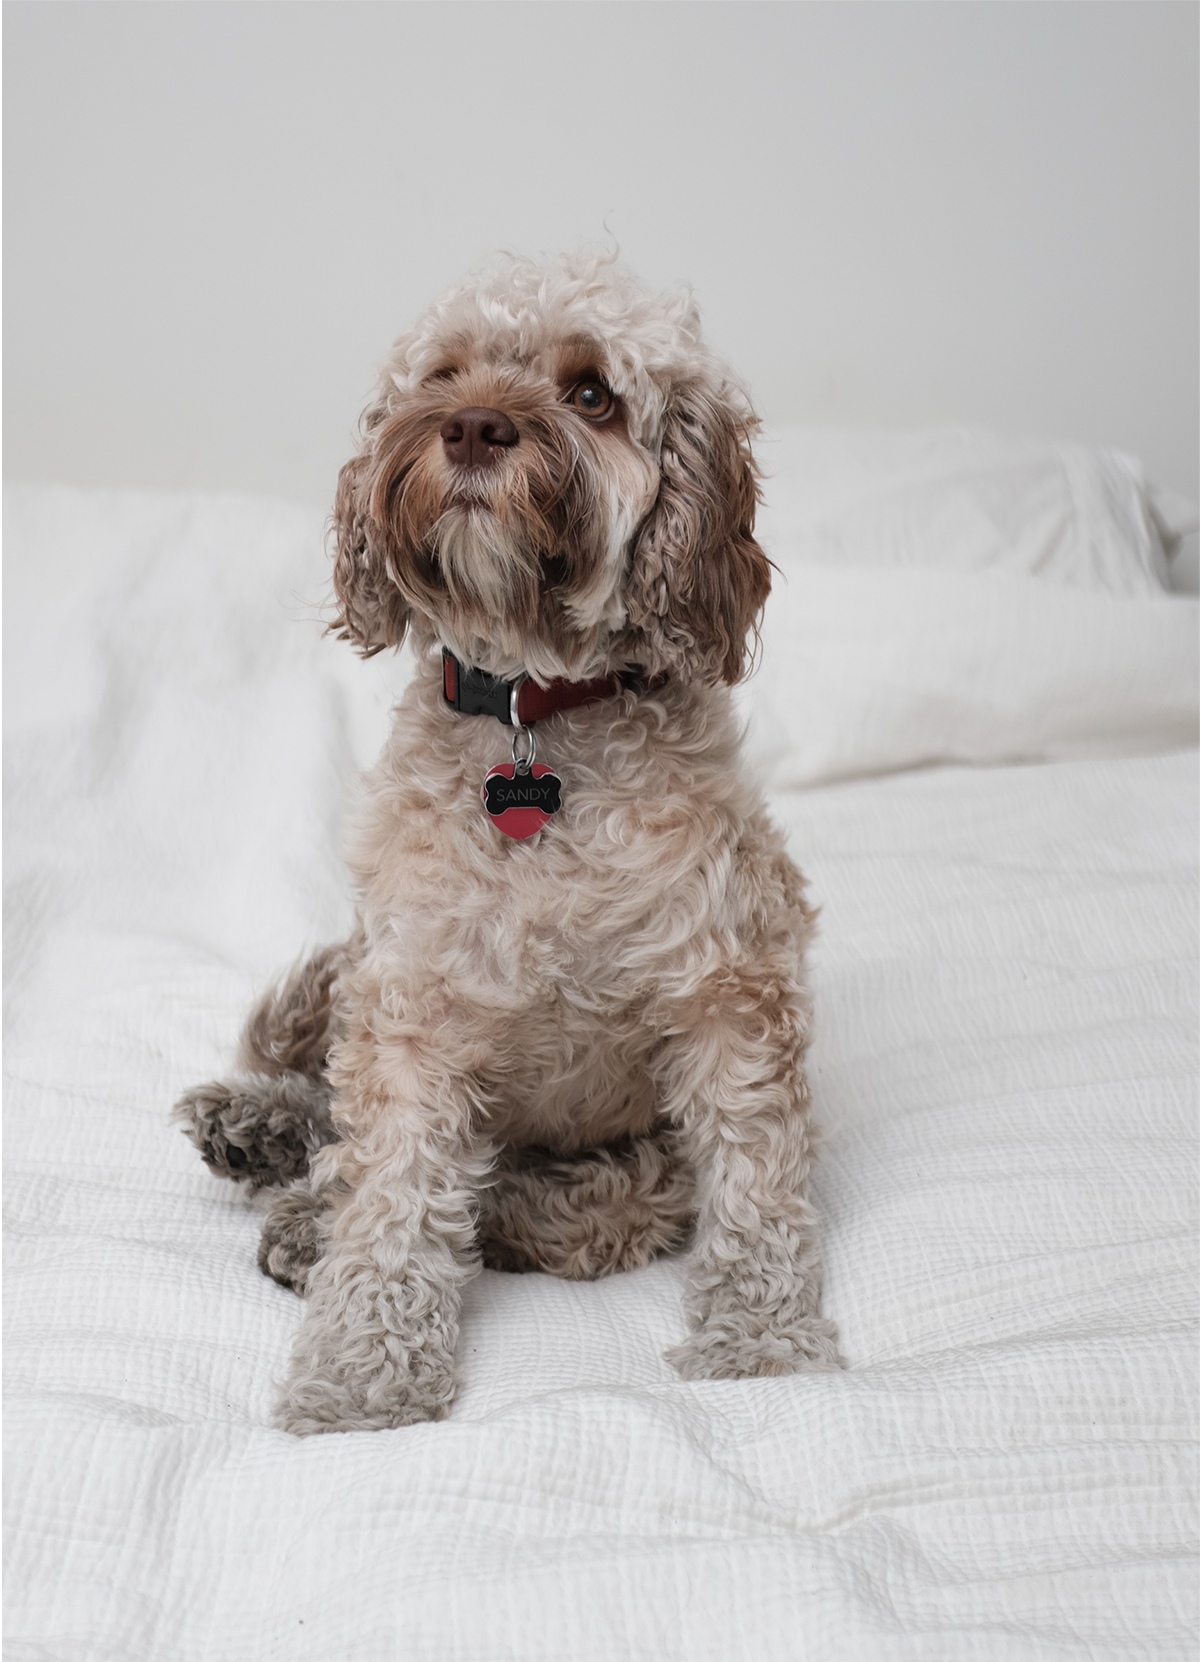
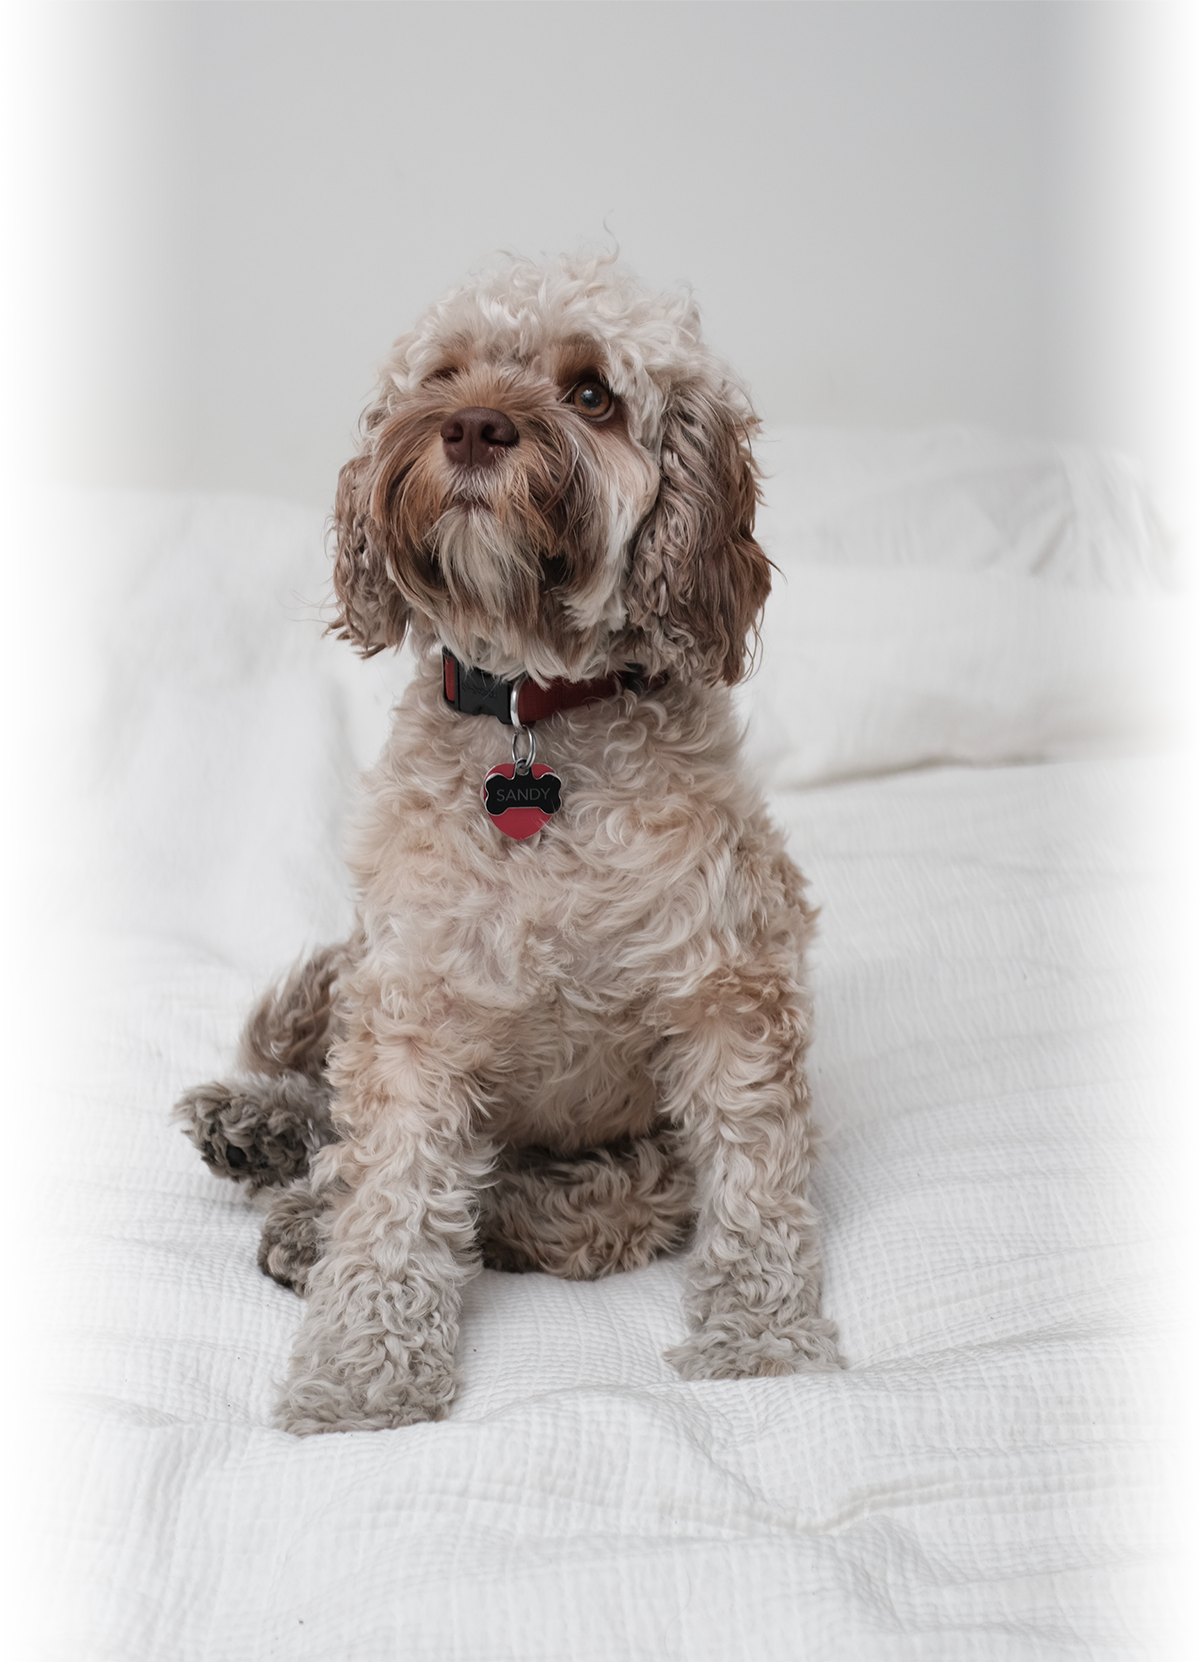
wider aspect ratio
dog image fades into a gray background

Changed region(s): [[0.8942, 0.0, 1.0, 1.0], [0.0, 0.0, 0.0925, 1.0]]

diff --git a/templates/quantum-classical.html b/templates/quantum-classical.html
@@ -2,33 +2,33 @@
   <head>
     <meta charset="UTF-8" name="viewport" content="width=device-width, initial-scale=1">
     <title>Quantum vs. Classical</title>
-      
+
     <!-- Styles -->
     <link rel="stylesheet" type="text/css" href="../resources/css/tachyons.css">
     <link rel="stylesheet" type="text/css" href="../resources/css/additions.css"/>
     <link rel="stylesheet" href="../resources/node_modules/lightbox2/dist/css/lightbox.css">
-    
+
     <!-- Scripts -->
     <script type='text/javascript' src='../resources/js/jquery-3.2.1.min.js'></script>
     <script type='text/javascript' src="../resources/js/iframeResizer.js"></script>
     <script type='text/javascript' src="../resources/node_modules/lightbox2/dist/js/lightbox.js"></script>
-    
+
     <!-- Fonts -->
     <link rel="stylesheet" href="https://fonts.googleapis.com/css?family=Lora">
-      
+
   </head>
   <body class="cf lora f5-ns f6 dark-gray bg-lighter-gray">
-      
+
     <!-- Header -->
     <header class="w-100 center bg-lighter-gray fixed z-max">
       <div class="w-100 cf mw7 center bg-lighter-gray pb1 pt2 bb b--light-gray">
-        
+
         <!-- Site title and logo -->
         <div class="w-30 fl mt1 pl4">
           <h1 class="f5-l f5 tl pt3 pb3 gray ma0 dn db-l">Quantum Atlas</h1>
           <h1 class="f5-l f5 tc pt3 pb3 gray ma0 db dn-l">QA</h1>
         </div>
-        
+
         <!-- Searchbar -->
         <div class="w-50 fr pr4">
           <form class="mt2 mb2 black-80 dib w-90 w-100-l flex fl">
@@ -36,67 +36,69 @@
             <button class="w-10 bg-lighter-gray b--black-20" style="box-shadow: none; background-color: rgba(240, 240, 240, 0.8);"><img src="../resources/icons/search.svg" style="center"></button>
           </form>
         </div>
-        
+
       </div>
     </header>
-    
+
     <!-- Entry title box -->
     <div class="w-100 mw7 cf center pt5 mt4 pl4">
       <span class="blue pointer f6 sans-serif">Atlas Term <span class="f7 pb2 blue relative" style=""> ›</span></span>
       <h1 class="f2-l tl-l f4 ma0 mt1 helvetica">Quantum vs. Classical</h1>
       <h3 class="f6 mt2 mb4 gray i tl-l">What makes the quantum world different?</h3>
     </div>
-    
-    <!-- Entry body --> 
+
+    <!-- Entry body -->
     <div class="w-100 mw7 cf center pa4 pt0">
       <div class="w-90 w-100-l center fr-l pr3 pl3 pa0-l mt0">
-        
+
         <!-- Banner image and caption -->
         <div class="mb4 mt0 tc">
           <div class="relative w-100-l mt0-l">
             <div  class="w-100 tc">
-              <div class="ba b--moon-gray mb3 center relative tc"><img src="../resources/images/banners/andreas-gucklhorn-285567.jpg"></div>
+              <div class="ba b--moon-gray mb3 center relative tc">
+                <iframe src="../resources/interactives/dog-zoom/index.html" class="iframe w-100 v-mid" id="g731" scrolling="no" frameborder="0"></iframe>
+              </div>
             </div>
           </div>
         </div>
         <div style="height: 100px;" class="w-40-l w-100 fr pl2 pr2 pl3-l pr0-l pt2">
           <p class="w-90-l w-100 mw7 center pl4 f7 fr-l sans-serif gray lh-copy mt1 br bl bb b--moon-gray bg-light-gray caption">Size is one way to distinguish the quantum world from the classical world, although it's not a perfect separation.</p>
         </div>
-        
+
         <p class="w-60-l w-100 mw7 mw9-ns center ml0-ns mr0-ns mt2 pr4">
           Everyday objects more or less obey the laws of physics discovered by Isaac Newton and other luminaries of the Enlightenment. You can (usually) find your car keys because they stay right where you put them an hour ago. They don’t suddenly appear in the refrigerator. You can decide how to dress because your clothes don’t change color in the closet. A well-pitched baseball always arrives at the catcher’s mitt and not in the parking lot.
         </p>
-        
+
         <p class="w-60-l w-100 mw7 mw9-ns center ml0-ns mr0-ns mt2 pr4">
           These everyday experiences are the result of classical physics—the laws and equations that were around before quantum mechanics. The world of classical physics is predictable. If you know the initial position and speed of an object, as well as the forces that act on it, you can predict its motion with perfect certainty. That’s how NASA can place a spacecraft at a precise location a billion kilometers away.
         </p>
-        
+
         <!-- Inline image -->
         <div class="w-50-l mt0 tc">
           <img src="../resources/images/Classical_Space.png" class="pl3 pr3 pb4 pt2 mw6" style="width: 60% ;float: center ;"/>
         </div>
-        
+
         <p class="w-60-l w-100 mw7 mw9-ns center ml0-ns mr0-ns mt2 pr4">
           But in the quantum world—at the scale of atoms or smaller—things are utterly different. Not weird or mysterious or incomprehensible. Just way different.
         </p>
-        
+
         <p class="w-60-l w-100 mw7 mw9-ns center ml0-ns mr0-ns mt2 pr4">
           For one thing, properties of quantum objects can’t take on any old value. Someone walking down a ramp can stop anywhere along the way, but many quantum properties are restricted to certain allowed values—more like items placed on a staircase than on a ramp. Something can be on step 2, 3, 4 or whatever. But not step 2.67 or 4.23. It’s the way nature seems to operate at the smallest scales.
         </p>
-        
+
         <!-- Inline image -->
         <div class="w-50-l mt0 tc">
           <img src="../resources/images/Classical_Ramp.png" class="pl3 pr3 pb2 pt2 mw6" style="width: 100% ;float: center ;"/>
         </div>
-        
+
         <p class="w-60-l w-100 mw7 mw9-ns center ml0-ns mr0-ns mt2 pr4">
           Each increment is a “quantum,” from the Latin word for “how much” (plural: quanta). Some quantum effects defy intuition, but others are easier to understand. For example, each element in the periodic table has its own unique luminous fingerprint, which is also called a spectrum. That’s because each has its own distinct arrangement of electrons with certain specific energies.
         </p>
-        
+
         <p class="w-60-l w-100 mw7 mw9-ns center ml0-ns mr0-ns mt2 pr4">
 				When one electron gains <i>exactly</i> the right amount of energy—no more, no less—it can jump to a higher energy level. Eventually it falls back down, and it sheds that energy as a quantum of light—also known as a photon. The color of the light depends on the energy difference between the two levels, and so is unique to every element. (When electrons change levels, they do so instantaneously in a “quantum leap.”)
         </p>
-        
+
         <!-- Sidebar image and caption -->
         <div class="w-100 w-40-l relative items-center flex fr pl5-ns">
           <div class="absolute-l w-100 mw7-ns pr5-ns">
@@ -110,30 +112,30 @@
             </div>
           </div>
         </div>
-        
+
         <p class="w-60-l w-100 mw7 mw9-ns center ml0-ns mr0-ns mt2 pr4">
 				Many more properties, including aspects of magnetism, are quantized on the atomic scale. But that does not mean that an object’s properties have fixed values. In fact, isolated quantum objects or systems do not have any particular properties until they are measured, a feature you can learn more about in the <a href="measurement.html">entry on quantum measurement</a>. Quantum physics provides a way to calculate the probability of any given measurement outcome, though, even if it doesn’t provide the perfect predictability of classical physics.
         </p>
-        
+
         <p class="w-60-l w-100 mw7 mw9-ns center ml0-ns mr0-ns mt2 pr4">
           Finally, in the quantum world objects can behave like both particles and waves, depending on the situation. Although massless photons behave like waves, and can be reflected, refracted and so forth, they also behave like particles in certain experiments. For example, when a photon with the right energy strikes some materials, it can liberate an electron from its usual cramped position. This interaction, called the photoelectric effect, got Einstein a Nobel prize and serves as the basis for every photovoltaic cell that makes electricity out of light from the sun.
         </p>
-        
+
         <!-- Inline image -->
         <div class="w-50-l mt0 tc">
           <img src="../resources/images/Classical_PhotonCollison.png" class="pl3 pr3 pb2 pt2 mw6" style="width: 100% ;float: center ;"/>
         </div>
-        
+
         <p class="w-60-l w-100 mw7 mw9-ns center ml0-ns mr0-ns mt2 pr4">
           Ordinary matter like electrons also have a fickle personality. As particles, they are used in lithography, welding, chemical processing, medicine and many more applications. But when a beam of electrons passes through a barrier with two parallel slits and then on to a detector, the electrons behave like waves, forming interference patterns on the detector.
         </p>
-        
+
       </div>
     </div>
-      
+
     <script type='text/javascript' src='../resources/js/sidenote.js'></script>
     <script>iFrameResize({log:false})</script>
     <script type='text/javascript' src="../resources/js/scroll.js"></script>
-    
+
   </body>
 </html>

diff --git a/resources/interactives/dog-zoom/index.html b/resources/interactives/dog-zoom/index.html
@@ -1,33 +1,38 @@
 <html>
   <head>
     <script src="https://cdnjs.cloudflare.com/ajax/libs/gsap/1.20.4/TweenMax.min.js"></script>
-    <link rel="stylesheet" type="text/css" media="all" href="../../tachyons.css"/>
+    <script type='text/javascript' src="../../../resources/js/iframeResizer.contentWindow.js"></script>
+    <link rel="stylesheet" type="text/css" media="all" href="../../css/tachyons.css"/>
     <style>
     #label {
-      top: 80%;
-      background-color:rgba(255, 255, 255, 0.25);
+      top: 78%;
+    }
+    .shaded {
+      background-color:rgba(255, 255, 255, 0.5);
     }
     #buttons {
       z-index: 4;
-      top: 90%;
+      top: 89%;
     }
     </style>
   </head>
   <body>
-    <div class="w-100 mw7 center mt4 sans-serif dark-gray overflow-hidden relative" id="container">
-      <div class="center w-100 tc z-3 f1 v-top absolute pa2 blue outline" id="label">100,000x</div>
-      <div class="w-100 mt1 absolute" id="buttons">
-        <div class="w-100 mw4 center">
-          <a class="f1 link dim ph3 code pv2 mb2 dib w-50 fr tc outline" href="#0" onclick="increment(1)">+</a>
-          <a class="f1 link dim ph3 code pv2 mb2 dib w-50 tc outline" href="#0" onclick="increment(-1)">-</a>
+    <div class="w-100 mw7 center bg-moon-gray">
+      <div class="w-100 mw5 center sans-serif dark-gray overflow-hidden relative" id="container">
+        <div class="center w-100 tc z-3 f2 v-top absolute pa2 blue outline shaded" id="label">100,000x</div>
+        <div class="w-100 absolute" id="buttons">
+          <div class="w-100 mw4 center">
+            <a class="f2 link dim ph3 code pv2 mb2 dib w-40 fr tc outline shaded" href="#0" onclick="increment(1)">+</a>
+            <a class="f2 link dim ph3 code pv2 mb2 dib w-40 fl tc outline shaded" href="#0" onclick="increment(-1)">-</a>
+        </div>
+        </div>
+        <img src="images/hair.png" class="absolute w-100 z-1" id="hair">
+        <img src="images/bacteria.png" class="absolute w-100 z-1" id="bacteria">
+        <img src="images/atom.png" class="absolute w-100 z-1" id="atom">
+        <img src="images/glass.png" class="absolute w-100 z-2" id="glass">
+        <img src="images/glass.png" class="absolute w-100 z-2" id="glass-hidden">
+        <img src="images/dog-fade.png" class="relative w-100" id="dog">
       </div>
-      </div>
-      <img src="hair.png" class="absolute mw7 z-1" id="hair">
-      <img src="bacteria.png" class="absolute mw7 z-1" id="bacteria">
-      <img src="atom.png" class="absolute mw7 z-1" id="atom">
-      <img src="glass.png" class="absolute mw7 z-2" id="glass">
-      <img src="glass.png" class="absolute mw7 z-2" id="glass-hidden">
-      <img src="dog.png" class="relative mw7" id="dog">
     </div>
   </body>
 
